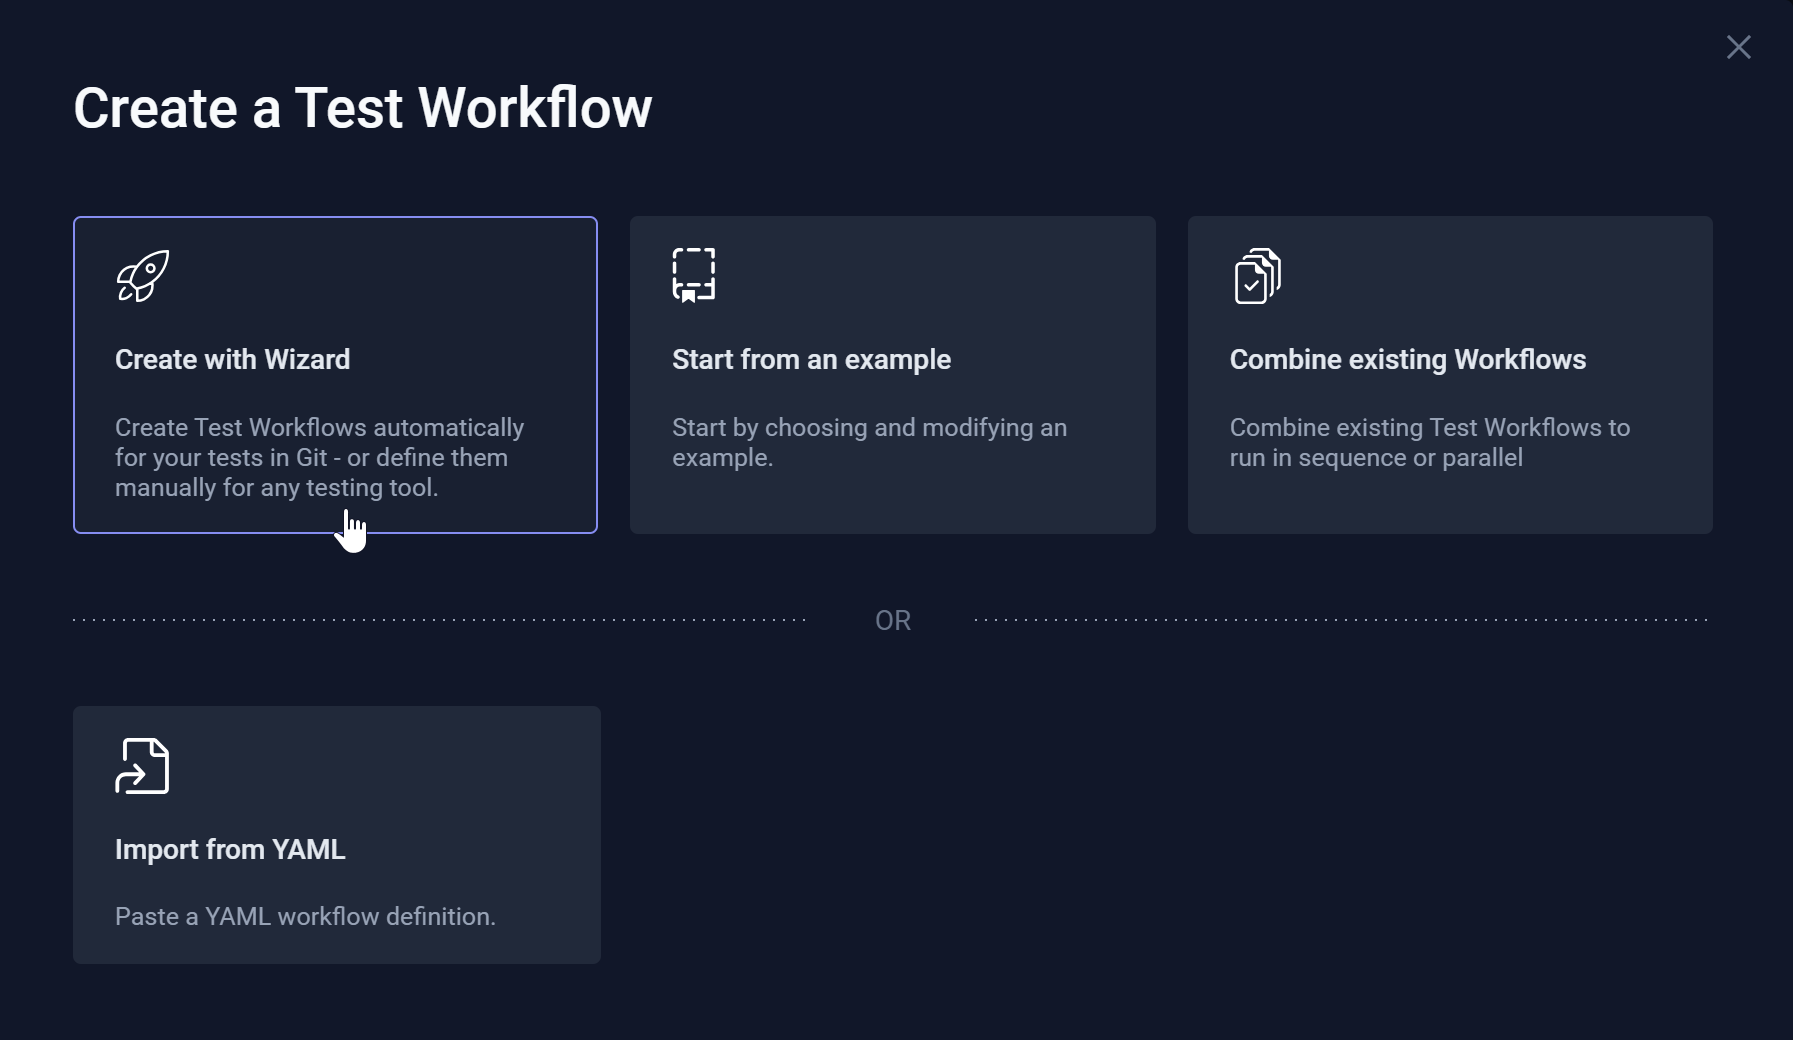
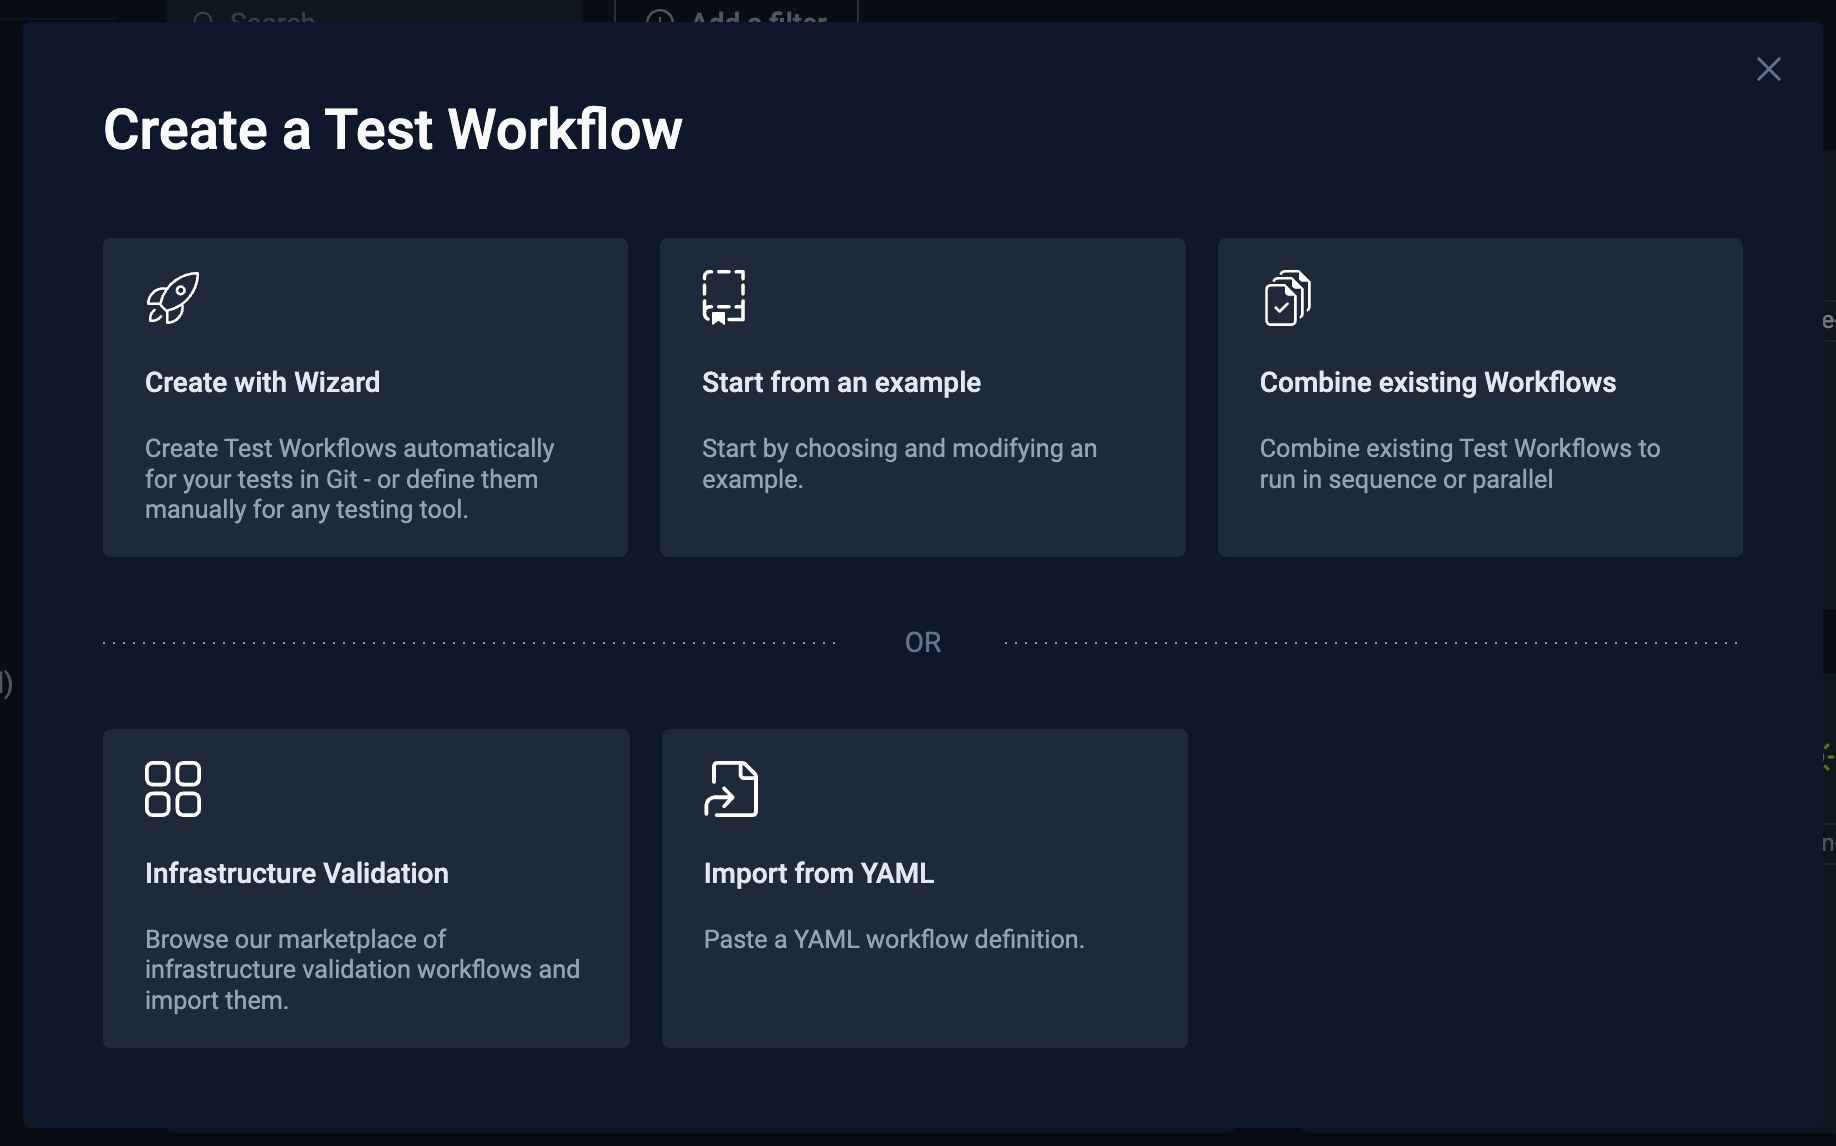
docs: update workflow wizard documentation and changelog with new infrastructure validation feature

diff --git a/docs/articles/test-workflows-create-wizard.md b/docs/articles/test-workflows-create-wizard.md
@@ -180,9 +180,6 @@ When you are satisfied with the created Workflow, select **Create & Run** or **C
 **Start from an example** allows you to launch a test with one of Testkube's example Workflows, which you can modify
 to align with your requirements.
 
-
-![Start from an Example](../articles/images/workflow-wizard-start-from-an-example.png)
-
 Selecting **Start from an example** opens:
 
 ![Start from an Example K6](../articles/images/workflow-wizard-start-from-an-example-k6.png)
@@ -204,8 +201,6 @@ You can change the **Name** of the Workflow you created by updating the
 ## Combine Existing Workflows
 
 **Combine existing Workflows** allows you to create a Workflow that orchestrates multiple existing Workflows to run in sequence or in parallel.
-
-![Combine Existing Workflows](../articles/images/workflow-wizard-combine-existing-workflows.png)
 
 Selecting **Combine existing Workflows** opens:
 
@@ -229,11 +224,44 @@ For additional information about **Combine existing workflows**, read [Workflow 
 
 :::
 
+## Infrastructure Validation
+
+This option allows you to import an existing Workflow for Infrastructure Validation from the [Testkube Marketplace](https://github.com/kubeshop/testkube-marketplace).
+
+
+### Selecting a Workflow from the Marketplace
+
+Selecting **Infrastructure Validation** opens an initial screen that shows all available Workflows on the Marketplace:
+
+![Select Workflow from Catalog](images/select-workflow-from-catalog.png)
+
+### Configuring the Workflow
+
+Selecting a Workflow takes you to its configuration page where you can specify configuration parameters (if applicable):
+
+![Infrastructure Workflow Config Params](images/infrastructure-workflow-config-params.png)
+
+### Workflow YAML
+
+The **YAML** tab shows the actual TestWorkflow YAML of the Workflow:
+
+![Infrastructure Workflow YAML](images/infrastructure-workflow-yaml.png)
+
+The [View on Github] link opens the corresponding Workflow in the Marketplace on GitHub
+
+### Workflow Documentation
+
+The **Documentation** tab shows the content of a corresponding README file in the repository if available.
+
+![Infrastructure Workflow README](images/infrastructure-workflow-readme.png)
+
+### Adding the Workflow to your Environment
+
+Select **Create & Run** or **Create** at the bottom of any of these tabs to import the Workflow into your Environment with the specified configuration parameters.
+
 ## Import from YAML
 
 **Import from YAML** allows you to paste and edit your YAML Workflow definition.
-
-![Import from YAML](../articles/images/workflow-wizard-import-from-yaml.png)
 
 Selecting **Import from YAML** opens:
 
